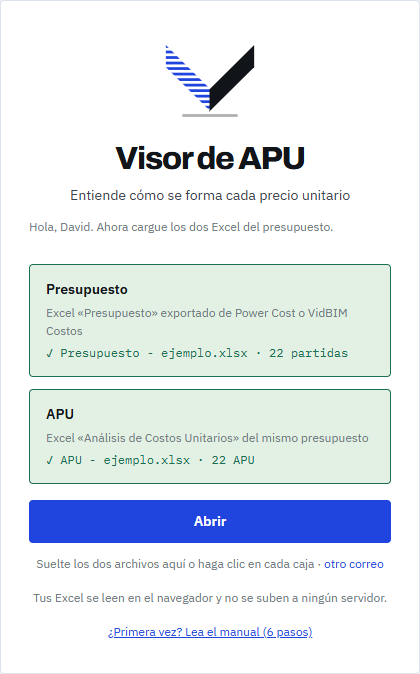
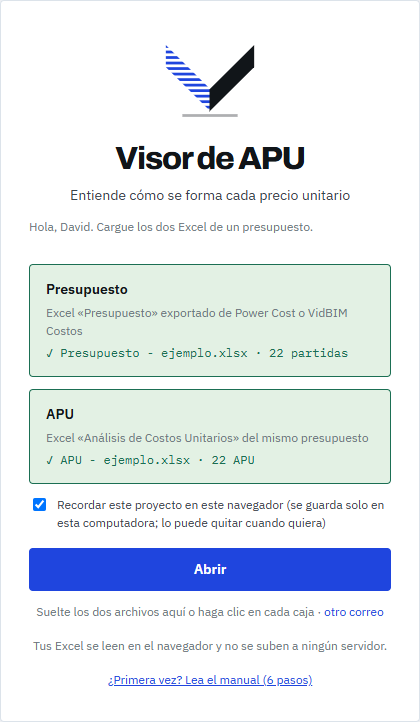
Varios proyectos en pestañas, guardados en el navegador (IndexedDB) con la última partida; manual actualizado

Changed region(s): [[0.0619, 0.0623, 0.9286, 0.9036], [0.2476, 0.9347, 0.7429, 0.9659]]

diff --git a/index.html b/index.html
@@ -38,6 +38,7 @@ button{font:inherit;cursor:pointer}
 .cab .btn{background:transparent;border-color:var(--cabecera-linea);color:var(--cabecera-texto)}
 .cab .btn:hover{background:var(--cabecera-hover)}
 .cab .btn .corto{display:none}
+@media (min-width:701px){ #btnCambiar{display:none!important} }
 
 /* ── portada de acceso y carga ── */
 .portada{min-height:calc(100vh - var(--cabecera-alto));display:grid;place-items:center;padding:24px 16px}
@@ -63,6 +64,33 @@ button{font:inherit;cursor:pointer}
 .suelta .btn.principal{width:100%;margin-top:4px}
 .suelta .cambiar{font-size:var(--t-aux);color:var(--gris);text-align:center}
 .suelta .cambiar button{all:unset;color:var(--azul);cursor:pointer}
+.suelta .recordar{display:flex;gap:8px;align-items:flex-start;font-size:var(--t-aux);color:var(--tinta-2);text-align:left;cursor:pointer}
+.suelta .recordar input{margin-top:2px}
+/* proyectos guardados en este navegador (portada) */
+.guardados{text-align:left;margin:0 0 16px;display:grid;gap:6px}
+.guardados h2{font-size:var(--t-aux);font-weight:600;color:var(--tinta-2);margin:0;text-transform:uppercase;letter-spacing:.06em}
+.guardados .pr{display:grid;grid-template-columns:1fr auto;gap:8px;align-items:center;border:1px solid var(--linea);border-radius:var(--radio);padding:8px 10px;background:var(--superficie-2)}
+.guardados .pr button.abrir{all:unset;cursor:pointer;display:grid;gap:2px;min-width:0}
+.guardados .pr button.abrir:hover b{color:var(--azul)}
+.guardados .pr b{font-weight:600;font-size:var(--t-tabla);white-space:nowrap;overflow:hidden;text-overflow:ellipsis}
+.guardados .pr span{font-family:var(--f-datos);font-size:var(--t-aux);color:var(--gris);white-space:nowrap;overflow:hidden;text-overflow:ellipsis}
+.guardados .pr .quitar{border:1px solid var(--linea-fuerte);background:var(--superficie);color:var(--gris);border-radius:var(--radio);padding:2px 8px;font-size:var(--t-aux)}
+.guardados .pr .quitar:hover{color:var(--rojo);border-color:var(--rojo)}
+.guardados .borrar{all:unset;cursor:pointer;font-size:var(--t-aux);color:var(--gris);justify-self:end}
+.guardados .borrar:hover{color:var(--rojo)}
+/* pestañas de proyectos (bajo la cabecera) */
+.pestanas{display:flex;gap:4px;align-items:flex-end;padding:8px 16px 0;max-width:1720px;margin:0 auto;overflow-x:auto;scrollbar-width:thin}
+.pestanas .pe{display:flex;align-items:center;gap:6px;border:1px solid var(--linea);border-bottom:0;border-radius:var(--radio) var(--radio) 0 0;background:var(--superficie-2);padding:6px 8px 6px 12px;max-width:320px;flex:none}
+.pestanas .pe button.nom{all:unset;cursor:pointer;display:grid;min-width:0}
+.pestanas .pe b{font-weight:600;font-size:var(--t-aux);white-space:nowrap;overflow:hidden;text-overflow:ellipsis;color:var(--tinta-2)}
+.pestanas .pe small{font-family:var(--f-datos);font-size:10px;color:var(--gris);white-space:nowrap;overflow:hidden;text-overflow:ellipsis}
+.pestanas .pe.activa{background:var(--superficie);box-shadow:inset 0 2px 0 var(--azul)}
+.pestanas .pe.activa b{color:var(--tinta)}
+.pestanas .pe .x{all:unset;cursor:pointer;color:var(--gris);font-size:12px;width:18px;height:18px;display:grid;place-items:center;border-radius:4px}
+.pestanas .pe .x:hover{background:var(--superficie-3);color:var(--rojo)}
+.pestanas .mas{border:1px dashed var(--linea-fuerte);background:transparent;color:var(--tinta-2);border-radius:var(--radio) var(--radio) 0 0;padding:8px 12px;font-size:var(--t-aux);flex:none;white-space:nowrap}
+.pestanas .mas:hover{border-color:var(--azul);color:var(--azul)}
+.aviso-guardado{max-width:1720px;margin:8px auto 0;padding:0 16px;font-size:var(--t-aux);color:var(--ambar)}
 
 /* ── tablero: presupuesto a la izquierda, APU a la derecha ── */
 .tablero{display:grid;grid-template-columns:minmax(0,1.15fr) minmax(0,1fr);gap:16px;padding:16px;max-width:1720px;margin:0 auto;align-items:start}
@@ -228,6 +256,8 @@ footer.pie{max-width:1720px;margin:0 auto;padding:8px 16px 32px;font-size:var(--
   .marca .wm{font-size:16px}
   .grilla .corto{display:inline}.grilla .largo{display:none}
   .tablero{padding:12px;gap:12px}
+  .pestanas{padding:8px 12px 0}
+  .pestanas .pe{max-width:220px}
   .pres .ayuda{display:none}
   .pres input{min-width:0;flex-basis:100%}
   .grilla{table-layout:fixed}
@@ -284,7 +314,7 @@ footer.pie{max-width:1720px;margin:0 auto;padding:8px 16px 32px;font-size:var(--
   </a>
   <div class="archivos" id="chipsArchivos"></div>
   <div class="der">
-    <button class="btn" id="btnCambiar" hidden title="Cargar otros Excel"><span class="largo">Otros archivos</span><span aria-hidden="true">⇄</span></button>
+    <button class="btn" id="btnCambiar" hidden title="Agregar otro proyecto (sus dos Excel)"><span class="largo">Agregar proyecto</span><span class="corto" aria-hidden="true">＋</span></button>
     <button class="btn" onclick="abrirComo()"><span class="largo">¿Cómo se lee un APU?</span><span class="corto" aria-label="¿Cómo se lee un APU?">?</span></button>
     <a class="btn" href="manual.html" title="Manual de uso" style="text-decoration:none">Manual</a>
     <button class="btn" onclick="tema()" title="Tema claro / oscuro">◐</button>
@@ -307,6 +337,7 @@ footer.pie{max-width:1720px;margin:0 auto;padding:8px 16px 32px;font-size:var(--
 
     <div class="suelta" id="suelta" hidden>
       <p class="hola" id="hola"></p>
+      <div class="guardados" id="guardados" hidden></div>
       <div class="caja" data-tipo="presupuesto" tabindex="0">
         <span class="nom">Presupuesto</span>
         <span class="esp">Excel «Presupuesto» exportado de Power Cost o VidBIM Costos</span>
@@ -315,6 +346,7 @@ footer.pie{max-width:1720px;margin:0 auto;padding:8px 16px 32px;font-size:var(--
         <span class="nom">APU</span>
         <span class="esp">Excel «Análisis de Costos Unitarios» del mismo presupuesto</span>
       </div>
+      <label class="recordar"><input type="checkbox" id="chkRecordar" checked> Recordar este proyecto en este navegador (se guarda solo en esta computadora; lo puede quitar cuando quiera)</label>
       <button class="btn principal" id="btnAbrir" disabled>Abrir</button>
       <div class="cambiar">Suelte los dos archivos aquí o haga clic en cada caja · <button type="button" id="btnSalir">otro correo</button></div>
       <input type="file" id="archivo" accept=".xlsx,.xls" multiple hidden>
@@ -323,6 +355,10 @@ footer.pie{max-width:1720px;margin:0 auto;padding:8px 16px 32px;font-size:var(--
     <p class="privado"><a href="manual.html" style="color:var(--azul)">¿Primera vez? Lea el manual (6 pasos)</a></p>
   </div>
 </main>
+
+<!-- ─────── Pestañas de proyectos ─────── -->
+<nav class="pestanas" id="pestanas" aria-label="Proyectos abiertos" hidden></nav>
+<div class="aviso-guardado" id="avisoGuardado" hidden></div>
 
 <!-- ─────── Tablero ─────── -->
 <main class="tablero" id="tablero" hidden>
@@ -422,7 +458,7 @@ async function comprobar(correo) {
 }
 function mostrarCarga(nombre) {
   $('#formCorreo').hidden = true; $('#suelta').hidden = false;
-  $('#hola').textContent = (nombre ? `Hola, ${nombre}. ` : '') + 'Ahora cargue los dos Excel del presupuesto.';
+  $('#hola').textContent = (nombre ? `Hola, ${nombre}. ` : '') + 'Cargue los dos Excel de un presupuesto.';
 }
 $('#formCorreo').addEventListener('submit', async e => {
   e.preventDefault();
@@ -432,16 +468,23 @@ $('#formCorreo').addEventListener('submit', async e => {
   $('#btnEntrar').disabled = true; $('#btnEntrar').textContent = 'Comprobando…';
   try {
     const r = await comprobar(correo);
-    if (r.ok) { guardar('visor.correo', correo); guardar('visor.nombre', r.nombre || ''); mostrarCarga(r.nombre); }
+    if (r.ok) { guardar('visor.correo', correo); guardar('visor.nombre', r.nombre || ''); mostrarCarga(r.nombre); alEntrar(); }
     else err.textContent = r.motivo === 'sin_acceso' ? 'Este correo no tiene acceso. Pídaselo a David.' : 'No se pudo comprobar el correo (' + (r.motivo || 'error') + ').';
   } catch (x) { err.textContent = 'No se pudo comprobar el correo. Revise su conexión e intente de nuevo.'; }
   $('#btnEntrar').disabled = false; $('#btnEntrar').textContent = 'Entrar';
 });
 $('#btnSalir').addEventListener('click', () => { guardar('visor.correo', ''); $('#suelta').hidden = true; $('#formCorreo').hidden = false; $('#correo').focus(); });
 { const c = leer('visor.correo'); if (c) { $('#correo').value = c; mostrarCarga(leer('visor.nombre')); } }
+// Los proyectos guardados se muestran una vez que hay correo; el último abierto se abre solo.
+async function alEntrar() {
+  await cargarGuardados();
+  pintarGuardados();
+  const ult = leer('visor.activo');
+  if (ult && proyectos.some(p => p.id === ult)) cambiarA(ult);
+}
 
 // ─────────── carga de los Excel ───────────
-const cargados = { presupuesto: null, apu: null };   // { nombre, wb, leido }
+let cargados = { presupuesto: null, apu: null };   // { nombre, leido } del proyecto que se está cargando
 function cargando(si, texto) { $('#cargando').hidden = !si; if (texto) $('#cargandoTexto').textContent = texto; }
 async function recibir(archivos) {
   for (const a of archivos) {
@@ -490,10 +533,131 @@ document.addEventListener('drop', e => {
   const fs = [...(e.dataTransfer?.files || [])].filter(f => /\.xlsx?$/i.test(f.name));
   if (fs.length) recibir(fs);
 });
-$('#btnAbrir').addEventListener('click', () => { cargando(true, 'Armando el presupuesto…'); setTimeout(() => { abrirTablero(); cargando(false); }, 30); });
-$('#btnCambiar').addEventListener('click', () => {
-  $('#tablero').hidden = true; $('#pieTablero').hidden = true; $('#portada').hidden = false; $('#btnCambiar').hidden = true; $('#chipsArchivos').innerHTML = '';
+$('#btnAbrir').addEventListener('click', async () => {
+  const e = { ...cargados.apu.leido.encabezado, ...cargados.presupuesto.leido.encabezado };
+  const pr = {
+    id: 'p' + Date.now().toString(36) + Math.random().toString(36).slice(2, 6),
+    nombre: e.Proyecto || cargados.presupuesto.nombre, sub: e['Sub Presupuesto'] || '', costoA: e['Costo a'] || '',
+    archivos: { presupuesto: cargados.presupuesto.nombre, apu: cargados.apu.nombre },
+    pre: cargados.presupuesto.leido, apu: cargados.apu.leido, fecha: Date.now(),
+    partidas: cargados.presupuesto.leido.filas.filter(f => f.esPartida).length,
+  };
+  // El mismo proyecto (mismo nombre y subpresupuesto) se reemplaza en vez de repetirse.
+  const igual = proyectos.find(x => x.nombre === pr.nombre && x.sub === pr.sub);
+  if (igual) { pr.id = igual.id; proyectos[proyectos.indexOf(igual)] = pr; armados.delete(pr.id); } else proyectos.push(pr);
+  pr.recordar = $('#chkRecordar').checked;
+  cargados = { presupuesto: null, apu: null }; pintarCajas();
+  if (pr.recordar) await guardarProyecto(pr); else await Almacen.borrar(pr.id).catch(() => {});
+  cambiarA(pr.id);
 });
+$('#btnCambiar').addEventListener('click', () => mostrarPortada());
+function mostrarPortada() {
+  if (activo) guardarEstado();
+  $('#tablero').hidden = true; $('#pieTablero').hidden = true; $('#pestanas').hidden = true; $('#avisoGuardado').hidden = true;
+  $('#portada').hidden = false; $('#btnCambiar').hidden = true; $('#chipsArchivos').innerHTML = '';
+  pintarGuardados();
+}
+{ const r = leer('visor.recordar'); if (r === 'no') $('#chkRecordar').checked = false; }
+$('#chkRecordar').addEventListener('change', e => guardar('visor.recordar', e.target.checked ? 'si' : 'no'));
+
+// ─────────── proyectos: varios abiertos y guardados en este navegador (IndexedDB) ───────────
+// Se guarda lo leído de los Excel (no los archivos), solo en esta computadora. Si el navegador no deja
+// guardar (modo privado, sin espacio), el proyecto queda abierto mientras no se cierre la página.
+const Almacen = (() => {
+  let db = null;
+  function abrirDb() {
+    if (db) return Promise.resolve(db);
+    return new Promise((ok, mal) => {
+      if (!window.indexedDB) return mal(new Error('sin IndexedDB'));
+      const r = indexedDB.open('visor-apu', 1);
+      r.onupgradeneeded = () => r.result.createObjectStore('proyectos', { keyPath: 'id' });
+      r.onsuccess = () => { db = r.result; ok(db); };
+      r.onerror = () => mal(r.error);
+    });
+  }
+  function tx(modo, fn) {
+    return abrirDb().then(d => new Promise((ok, mal) => {
+      const t = d.transaction('proyectos', modo), s = t.objectStore('proyectos');
+      const r = fn(s);
+      t.oncomplete = () => ok(r && r.result); t.onerror = () => mal(t.error); t.onabort = () => mal(t.error);
+    }));
+  }
+  return {
+    todos: () => tx('readonly', s => s.getAll()),
+    poner: p => tx('readwrite', s => s.put(p)),
+    borrar: id => tx('readwrite', s => s.delete(id)),
+  };
+})();
+let proyectos = [];          // { id, nombre, sub, archivos, pre, apu, fecha, partidas, recordar }
+const armados = new Map();   // id → datos armados (D), para cambiar de pestaña sin rehacerlo
+const estados = new Map();   // id → { item, buscar }
+let activo = null;
+
+async function guardarProyecto(p) {
+  const { recordar, ...limpio } = p;
+  try { await Almacen.poner(limpio); $('#avisoGuardado').hidden = true; }
+  catch (e) {
+    p.recordar = false;
+    $('#avisoGuardado').textContent = `No se pudo guardar «${p.nombre}» en este navegador (modo privado o sin espacio). Queda abierto mientras no cierre la página.`;
+    $('#avisoGuardado').hidden = false;
+  }
+}
+async function cargarGuardados() {
+  try { const ps = await Almacen.todos(); ps.sort((a, b) => a.fecha - b.fecha); ps.forEach(p => { p.recordar = true; if (!proyectos.some(x => x.id === p.id)) proyectos.push(p); }); }
+  catch (e) {}
+}
+function etiqueta(p) { return titleCase(p.nombre || ''); }
+function detalle(p) { return [p.sub, `${(p.partidas || 0).toLocaleString('es-PE')} partidas`].filter(Boolean).join(' · '); }
+function pintarGuardados() {
+  const g = $('#guardados');
+  if (!proyectos.length) { g.hidden = true; g.innerHTML = ''; return; }
+  g.hidden = false;
+  g.innerHTML = `<h2>Sus proyectos (${proyectos.length})</h2>` + proyectos.map(p =>
+    `<div class="pr"><button class="abrir" data-id="${p.id}" title="Abrir"><b>${esc(etiqueta(p))}</b><span>${esc(detalle(p))}${p.recordar ? '' : ' · solo por ahora'}</span></button>` +
+    `<button class="quitar" data-quitar="${p.id}" title="Quitar de este navegador">Quitar</button></div>`).join('') +
+    (proyectos.some(p => p.recordar) ? `<button class="borrar" id="btnBorrarTodo">Borrar todos los proyectos de este navegador</button>` : '') +
+    `<p class="hola" style="margin:8px 0 0">O agregue otro proyecto con sus dos Excel:</p>`;
+  g.querySelectorAll('[data-id]').forEach(b => b.addEventListener('click', () => cambiarA(b.dataset.id)));
+  g.querySelectorAll('[data-quitar]').forEach(b => b.addEventListener('click', () => quitar(b.dataset.quitar)));
+  $('#btnBorrarTodo')?.addEventListener('click', async () => {
+    if (!confirm('¿Borrar todos los proyectos guardados en este navegador? Tendrá que volver a cargar sus Excel.')) return;
+    for (const p of proyectos) await Almacen.borrar(p.id).catch(() => {});
+    proyectos = []; armados.clear(); estados.clear(); activo = null; guardar('visor.activo', ''); pintarGuardados();
+  });
+}
+async function quitar(id) {
+  const p = proyectos.find(x => x.id === id); if (!p) return;
+  if (!confirm(`¿Quitar «${etiqueta(p)}»${p.sub ? ' · ' + p.sub : ''} de este navegador? Para verlo otra vez tendrá que cargar sus Excel.`)) return;
+  await Almacen.borrar(id).catch(() => {});
+  proyectos = proyectos.filter(x => x !== p); armados.delete(id); estados.delete(id); try { localStorage.removeItem('visor.pos.' + id); } catch (e) {}
+  if (activo === id) { activo = null; guardar('visor.activo', ''); if (proyectos.length) cambiarA(proyectos[proyectos.length - 1].id); else mostrarPortada(); }
+  else { pintarPestanas(); pintarGuardados(); }
+}
+function pintarPestanas() {
+  const n = $('#pestanas');
+  n.innerHTML = proyectos.map(p => `<div class="pe${p.id === activo ? ' activa' : ''}" title="${esc(etiqueta(p) + (p.sub ? ' · ' + p.sub : ''))}">` +
+    `<button class="nom" data-id="${p.id}"><b>${esc(etiqueta(p))}</b><small>${esc(detalle(p))}</small></button>` +
+    `<button class="x" data-quitar="${p.id}" aria-label="Quitar ${esc(etiqueta(p))}" title="Quitar de este navegador">✕</button></div>`).join('') +
+    `<button class="mas" id="btnMas" title="Agregar otro proyecto">＋ Agregar proyecto</button>`;
+  n.querySelectorAll('[data-id]').forEach(b => b.addEventListener('click', () => cambiarA(b.dataset.id)));
+  n.querySelectorAll('[data-quitar]').forEach(b => b.addEventListener('click', () => quitar(b.dataset.quitar)));
+  $('#btnMas').addEventListener('click', () => mostrarPortada());
+  n.querySelector('.activa')?.scrollIntoView({ block: 'nearest', inline: 'nearest' });
+}
+function guardarEstado() {
+  if (!activo || !D) return;
+  estados.set(activo, { item: sel >= 0 ? D.filas[sel]?.item : null, buscar: $('#buscar').value });
+}
+function cambiarA(id) {
+  const p = proyectos.find(x => x.id === id); if (!p) return;
+  if (activo && activo !== id) guardarEstado();
+  cargando(true, `Abriendo ${etiqueta(p)}…`);
+  setTimeout(() => {
+    activo = id; guardar('visor.activo', id);
+    abrirTablero(p);
+    cargando(false);
+  }, 30);
+}
 
 // ─────────── tablero ───────────
 let D = null;            // datos armados
@@ -505,8 +669,11 @@ const MENORES = new Set(['de', 'del', 'la', 'las', 'los', 'el', 'y', 'e', 'en', 
 function titleCase(s) { return s.toLowerCase().replace(/[a-záéíóúñü][^\s()–-]*/g, (w, i, todo) => i > 0 && i + w.length < todo.trimEnd().length && MENORES.has(w) ? w : w[0].toUpperCase() + w.slice(1)); }
 function nombreCorto(s) { return s.replace(/^CAMPAMENTO\s+/i, ''); }
 
-function abrirTablero() {
-  D = Lector.armar(cargados.presupuesto.leido, cargados.apu.leido);
+function abrirTablero(p) {
+  // Se arma sobre una copia: lo guardado queda tal como se leyó del Excel.
+  if (!armados.has(p.id)) armados.set(p.id, Lector.armar(structuredClone(p.pre), structuredClone(p.apu)));
+  D = armados.get(p.id);
+  sel = -1; filtro = null;
   const F = D.filas;
   // Totales de título (los del Excel; si faltan, se suman).
   const idx = {}; F.forEach((f, i) => idx[f.item] = i);
@@ -538,12 +705,15 @@ function abrirTablero() {
   const e = D.encabezado;
   $('#pieInfo').textContent = [titleCase(e.Proyecto || ''), (e['Costo a'] || '').toLowerCase(), `${F.filter(f => f.esPartida).length.toLocaleString('es-PE')} partidas`, `${nIns.toLocaleString('es-PE')} insumos`].filter(Boolean).join(' · ');
   $('#pieCd').innerHTML = `Costo directo <b>S/ ${f2(D.cd)}</b>`;
-  $('#chipsArchivos').innerHTML = `<span class="chip" title="${esc(cargados.presupuesto.nombre)}">Presupuesto · ${esc(cargados.presupuesto.nombre)}</span><span class="chip">APU · ${D.apus.length.toLocaleString('es-PE')} partidas</span>`;
-  $('#portada').hidden = true; $('#tablero').hidden = false; $('#pieTablero').hidden = false; $('#btnCambiar').hidden = false;
+  $('#chipsArchivos').innerHTML = `<span class="chip" title="${esc(p.archivos.presupuesto)}">Presupuesto · ${esc(p.archivos.presupuesto)}</span><span class="chip">APU · ${D.apus.length.toLocaleString('es-PE')} partidas</span>`;
+  $('#portada').hidden = true; $('#tablero').hidden = false; $('#pieTablero').hidden = false; $('#btnCambiar').hidden = false; $('#pestanas').hidden = false;
+  pintarPestanas();
+  // Donde se quedó en este proyecto (o la primera partida).
+  const est = estados.get(p.id) || { item: leer('visor.pos.' + p.id) };
   $('#buscar').value = '';
-  // Primera partida abierta y elegida.
-  const primera = F.findIndex(f => f.esPartida);
-  if (primera >= 0) irA(primera, false); else refrescar();
+  const i = est.item != null && idx[est.item] != null ? idx[est.item] : F.findIndex(f => f.esPartida);
+  if (i >= 0) irA(i, false); else refrescar();
+  if (est.buscar) { $('#buscar').value = est.buscar; buscar(); filasDom[sel]?.scrollIntoView({ block: 'center' }); }
 }
 
 // ── plegado ──
@@ -605,6 +775,7 @@ function buscar() {
 function seleccionar(i, mostrarApu = true) {
   if (sel >= 0) filasDom[sel].classList.remove('sel');
   sel = i; filasDom[i].classList.add('sel');
+  if (activo) guardar('visor.pos.' + activo, D.filas[i].item);   // para volver a la misma partida otro día
   filasDom[i].scrollIntoView({ block: 'nearest' });
   if (mostrarApu) pintarApu(D.filas[i]);
 }
@@ -798,6 +969,8 @@ function otrosCampamentos(f) {
   return `<div class="otros"><h3>La misma partida en otros frentes de trabajo <small>· ${otras.length + 1} veces en el presupuesto, ` +
     (dist ? `${dist} con otro P.U.` : 'mismo P.U.') + `</small></h3><ul>${lista}</ul></div>`;
 }
+
+if (leer('visor.correo')) alEntrar();
 
 function dondeSeUsa(k, itemActual) {
   const ins = D.insumos[k]; if (!ins) return;

diff --git a/manual.html b/manual.html
@@ -79,7 +79,7 @@ footer{max-width:880px;margin:0 auto;padding:0 16px 32px;font-size:var(--t-aux);
 
   <ul class="indice">
     <li><a href="#entrar">1 · Entrar</a></li>
-    <li><a href="#cargar">2 · Cargar los Excel</a></li>
+    <li><a href="#cargar">2 · Cargar los Excel y varios proyectos</a></li>
     <li><a href="#presupuesto">3 · Moverse en el presupuesto</a></li>
     <li><a href="#apu">4 · Leer el APU</a></li>
     <li><a href="#calculo">5 · Ver el cálculo</a></li>
@@ -88,19 +88,29 @@ footer{max-width:880px;margin:0 auto;padding:0 16px 32px;font-size:var(--t-aux);
 
   <section class="paso" id="entrar">
     <header><span class="n">1</span><h2>Entrar con su correo</h2></header>
-    <p>Abra <a href="./">el visor</a>, escriba su correo y pulse <b>Entrar</b>. Si sale «Este correo no tiene acceso», pídaselo a David. El navegador recuerda su correo: la próxima vez va directo a cargar los archivos.</p>
+    <p>Abra <a href="./">el visor</a>, escriba su correo y pulse <b>Entrar</b>. Si sale «Este correo no tiene acceso», pídaselo a David. El navegador recuerda su correo y sus proyectos: la próxima vez entra directo al último que usó.</p>
     <figure class="chica"><img src="manual/1-entrar.png" alt="Portada del visor con el campo de correo y el botón Entrar" loading="lazy"></figure>
   </section>
 
   <section class="paso" id="cargar">
-    <header><span class="n">2</span><h2>Cargar los dos Excel</h2></header>
+    <header><span class="n">2</span><h2>Cargar los Excel · varios proyectos</h2></header>
     <p>Arrastre los dos archivos a la tarjeta, o haga clic en una caja para elegirlos. No importa el orden: el visor reconoce cuál es el presupuesto y cuál el de APU. Cuando las dos cajas se ponen en verde, pulse <b>Abrir</b>.</p>
     <ul>
       <li>Son los Excel de <b>exportación</b> (hoja SP1), tal como salen de Power Cost o de VidBIM Costos.</li>
       <li>Si una caja dice que el archivo no se reconoce, revise que no sea otro reporte (por ejemplo, la lista de insumos).</li>
-      <li>Para cambiar de presupuesto después, use <b>Otros archivos ⇄</b> en la cabecera.</li>
+      <li>Deje marcado <b>Recordar este proyecto en este navegador</b> para no volver a cargarlo: se guarda solo en esa computadora, nunca en internet.</li>
     </ul>
     <figure class="chica"><img src="manual/2-cargar.png" alt="Las dos cajas de Presupuesto y APU en verde con el botón Abrir" loading="lazy"></figure>
+    <h3 style="font-size:16px;margin:24px 0 4px">Varios proyectos a la vez</h3>
+    <p>Cada proyecto cargado queda en una <b>pestaña</b> arriba del presupuesto. Clic en una pestaña para cambiar de proyecto: cada uno recuerda la partida donde se quedó.</p>
+    <ul>
+      <li><b>＋ Agregar proyecto</b> (al final de las pestañas; en el celular, el <b>＋</b> de la cabecera) lleva a la portada para cargar otros dos Excel.</li>
+      <li>Si carga otra vez el mismo proyecto (mismo nombre y subpresupuesto), se <b>actualiza</b> en vez de repetirse: útil cuando exporta una versión nueva.</li>
+      <li>La <b>✕</b> de una pestaña quita ese proyecto de este navegador. En la portada puede <b>Quitar</b> uno o <b>Borrar todos</b>.</li>
+      <li>Al volver otro día, el visor abre solo el último proyecto que usó. En otra computadora o en modo privado habrá que cargar los Excel de nuevo.</li>
+    </ul>
+    <figure><img src="manual/2b-pestanas.png" alt="Pestañas de dos proyectos sobre el presupuesto" loading="lazy"><figcaption>Dos proyectos abiertos: una institución educativa y un centro de salud (ejemplos).</figcaption></figure>
+    <figure class="chica"><img src="manual/2c-proyectos.png" alt="Portada con la lista de proyectos guardados" loading="lazy"><figcaption>En la portada, sus proyectos guardados: clic en uno para abrirlo.</figcaption></figure>
   </section>
 
   <section class="paso" id="presupuesto">
